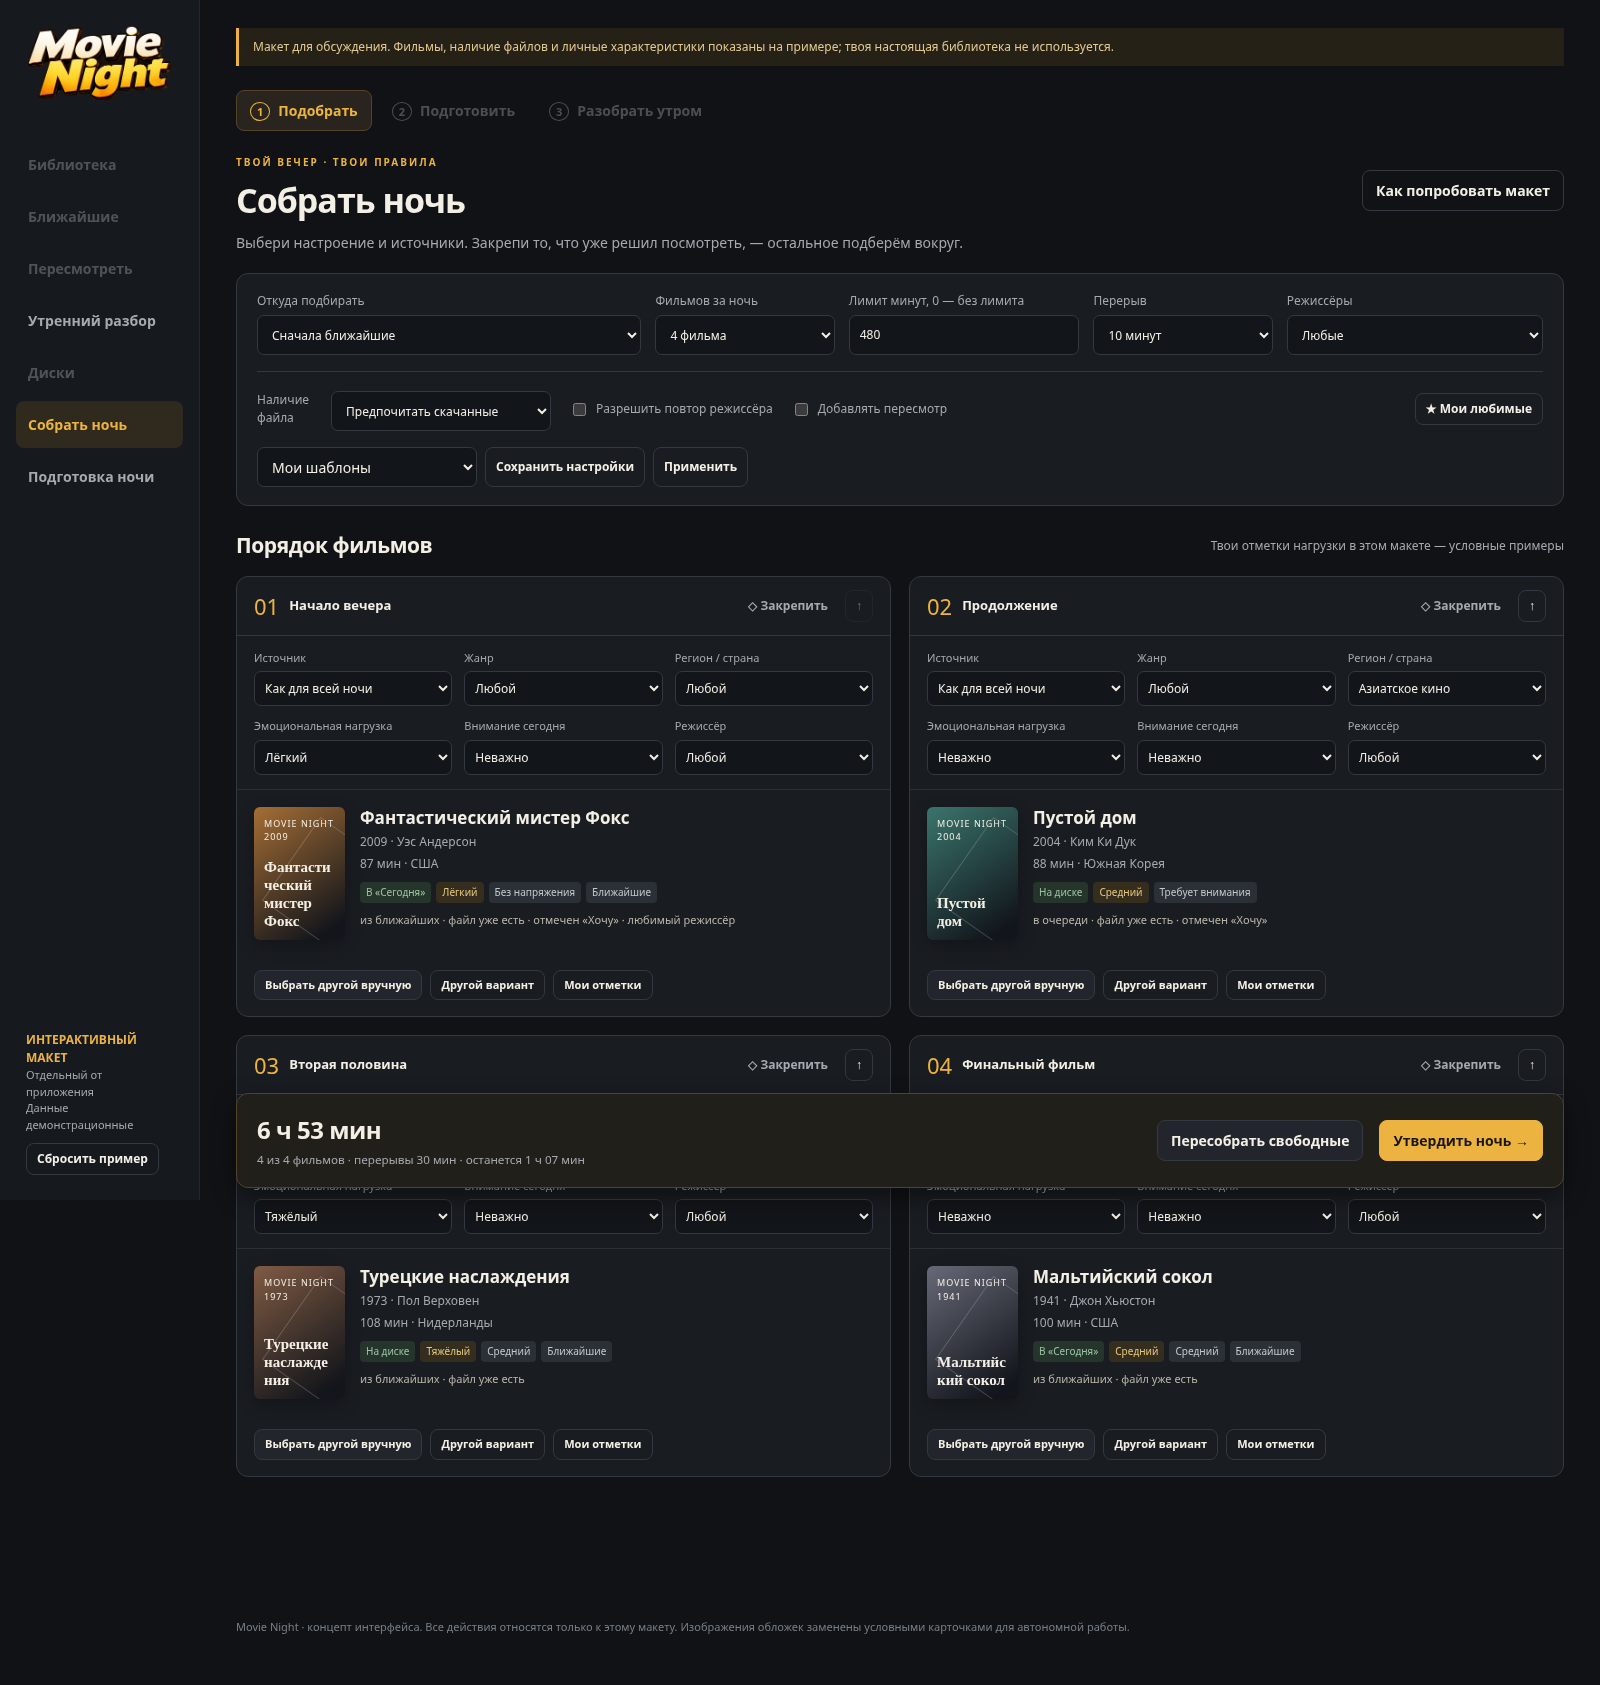
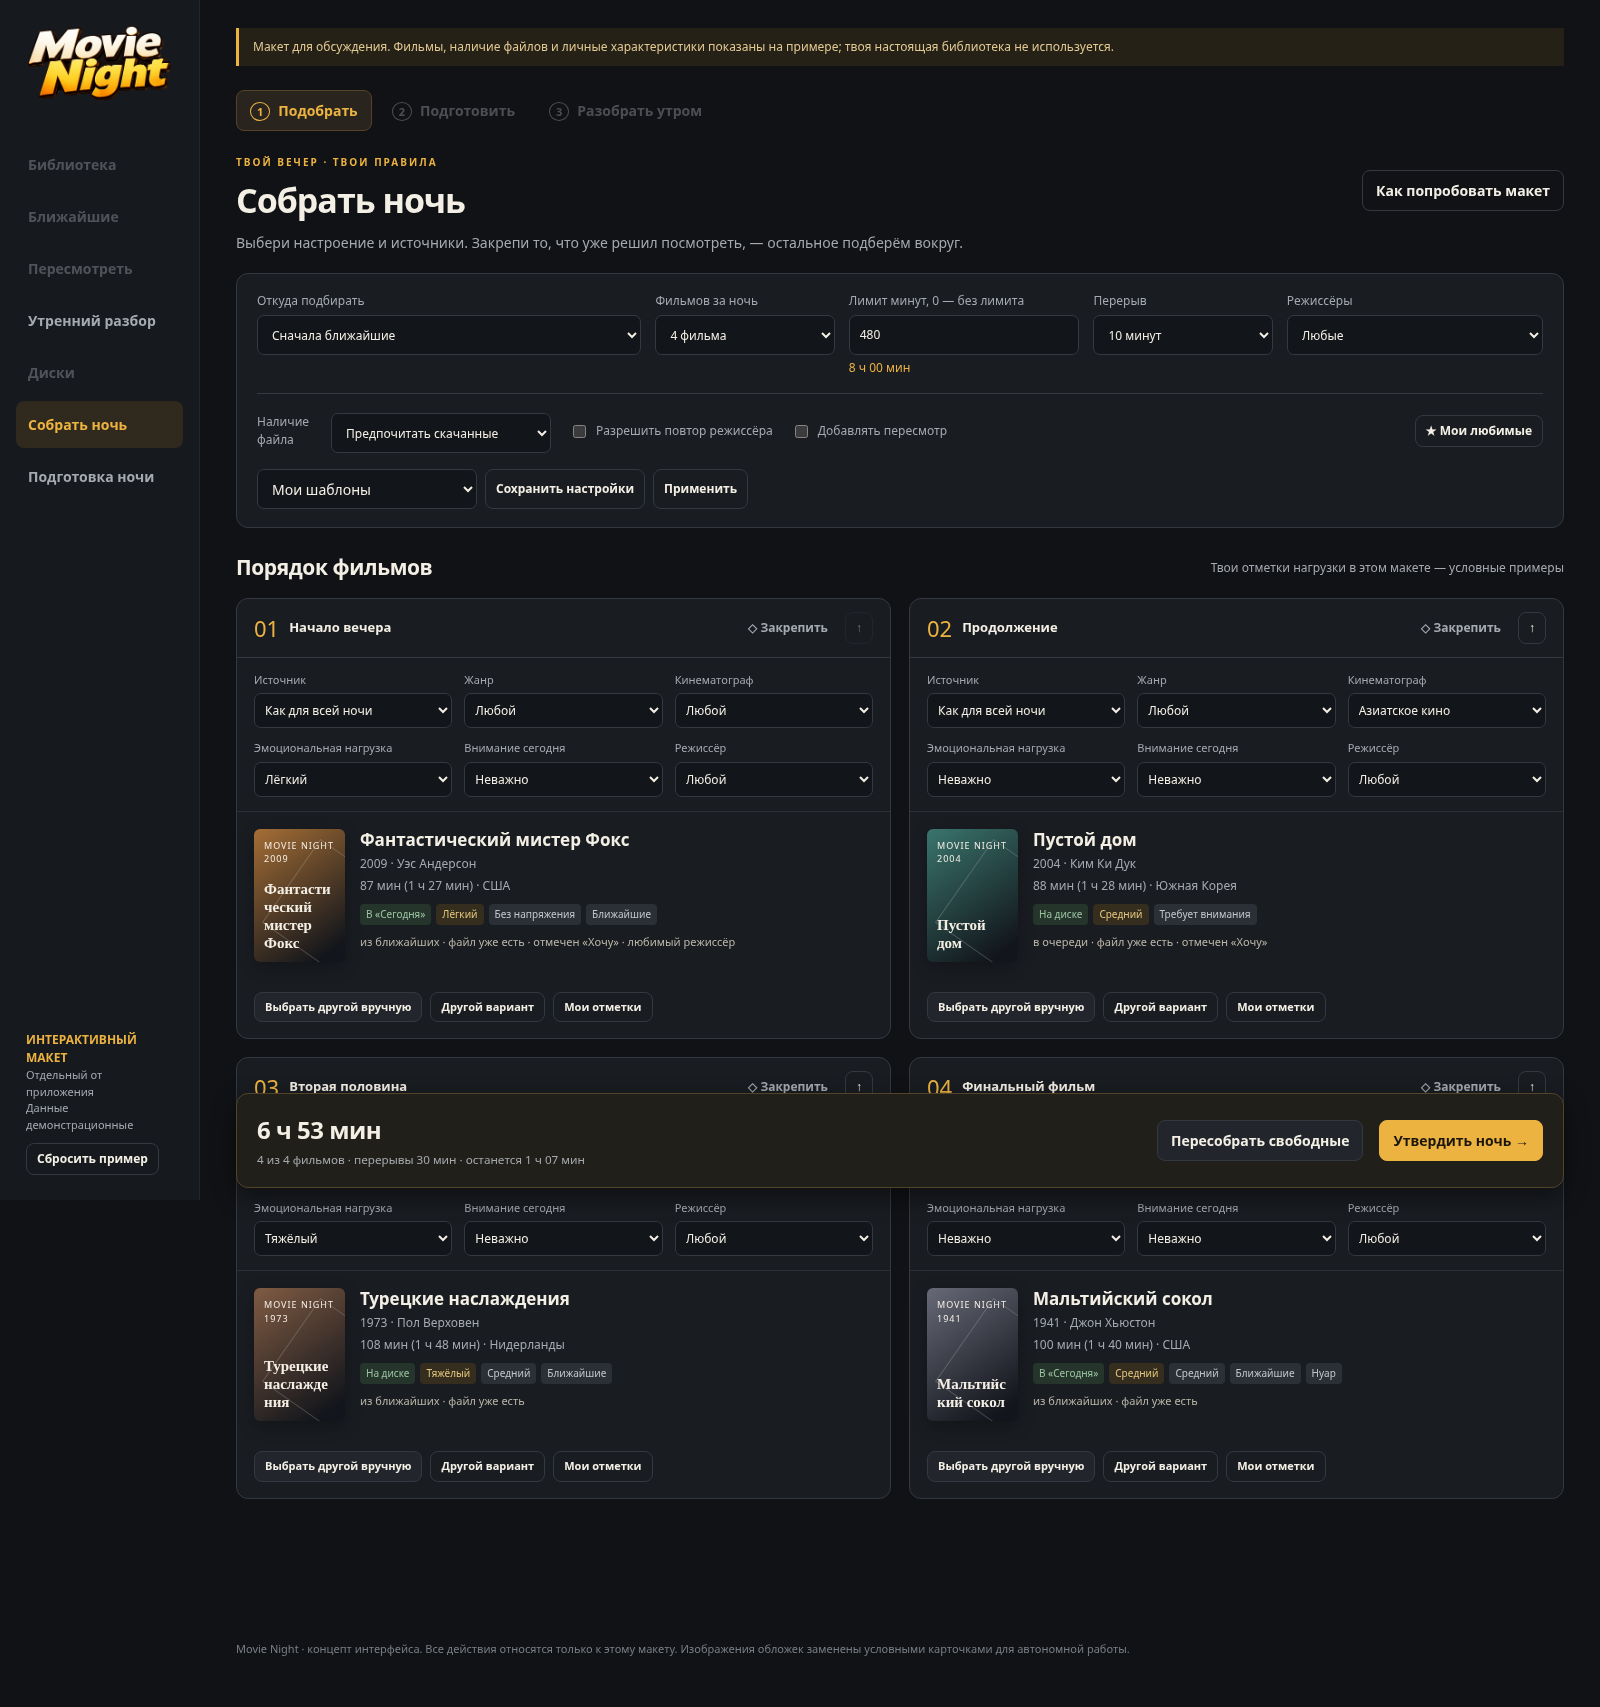
docs: единый азиатский фильтр, нуар и время в часах в макете [skip ci]

diff --git a/docs/prototypes/README.md b/docs/prototypes/README.md
@@ -14,9 +14,9 @@
 
 ## Что попробовать
 
-- Поменять число фильмов (в макете 1–6), лимит минут (0 — без лимита), перерывы и источники.
+- Поменять число фильмов (в макете 1–6), лимит минут (0 — без лимита), перерывы и источники. Рядом с вводом лимита сразу показываются часы и минуты, например 510 минут = 8 ч 30 мин. Длительность каждого фильма также показана в обоих форматах.
 - Настроить смесь: два из «Ближайших» и два из остальной библиотеки.
-- Указать жанр, регион, нагрузку, внимание и конкретного режиссёра для отдельного места.
+- Указать жанр, кинематограф, нагрузку, внимание и конкретного режиссёра для отдельного места. «Азиатское кино» выбирается одним пунктом без деления фильтра на страны; нуар и неонуар доступны в жанрах как ручные метки направления.
 - Выбрать любимых режиссёров вручную.
 - Закрепить фильм и пересобрать остальные; заменить только один фильм или выбрать вручную.
 - Сохранить и применить шаблон условий.
@@ -35,3 +35,5 @@
 Число слотов, шкалы, перерывы и детали экранов служат предложением для обсуждения. Числовые приоритеты демонстрационного подбора не являются утверждённым алгоритмом рекомендаций. Полноценная история ночей, слияние с библиотекой и прочие функции требуют отдельной реализации и согласования выпуска.
 
 Проверено в Chromium: подбор, лимит времени, закрепление, смесь, ручной выбор, шаблоны, утверждение, подготовка, результаты/оценки утра, пропуск без оценки, сохранение после перезагрузки, отмена, недопустимые ограничения и узкий экран. Это не Windows-сборка Electron и не проверка на реальном NAS.
+
+Правки после первого просмотра: убраны отдельные азиатские страны из фильтра (страна фильма в сведениях остаётся), добавлены действующие фильтры нуара/неонуара и их ручное редактирование в «Моих отметках», пересчёт минут в часы. Старые сохранённые фильтры Японии/Южной Кореи в черновиках и шаблонах объединяются в «Азиатское кино». Правки проверены отдельно и полным пользовательским сценарием в Chromium.

diff --git a/docs/NIGHT-PLANNER.md b/docs/NIGHT-PLANNER.md
@@ -206,3 +206,14 @@
 Если точную квоту невозможно заполнить, сообщить, какие слоты не заполняются, и предложить изменение; не добирать из другого источника молча. Закреплённый фильм учитывается в квоте по согласованным правилам, а не добавляется сверх числа фильмов. Число слотов и сумма квот должны совпадать.
 
 Настроение сегодняшней ночи — временное условие: «не хочу вникать» не меняет общую заинтересованность в фильме, очередь или оценку режиссёра. Эмоциональную нагрузку и требовательность к вниманию предложено различать, конкретные шкалы ещё не утверждены.
+
+
+## Уточнения после просмотра макета
+
+Пользователь одобрил общий макет и уточнил три пункта:
+
+1. «Азиатское кино» — единый пользовательский фильтр, без выбора отдельных азиатских стран. В интерфейсе предлагается общее поле «Кинематограф»; страны производства остаются сведениями о фильме и технической основой группировки, а не обязательными отдельными пользовательскими фильтрами.
+2. Нуар и неонуар должны быть доступны в выборе жанра. В данных это ручные метки направления, поскольку не следует обещать наличие достоверной стандартной классификации TMDB. Их можно сочетать с единым азиатским фильтром.
+3. Рядом с вводом лимита минут сразу показывать эквивалент в часах и минутах. Аналогичное отображение добавлено для длительности фильма. Нулевой лимит обозначается как отсутствие ограничения.
+
+Эти правки внесены в автономный макет и проверены в браузере; они не являются выпуском новой версии приложения.

diff --git a/docs/PROGRAM.md b/docs/PROGRAM.md
@@ -325,7 +325,7 @@ python scripts/build_seed.py source.xlsx near.txt movie-night-seed.json
 
 ## План развития
 
-Подробный [проект концепта и алгоритма «Собрать ночь»](NIGHT-PLANNER.md) ведётся отдельно. Доступен [интерактивный макет на демонстрационных данных](prototypes/README.md). Это обсуждаемый проект, а не описание уже работающей функции.
+Подробный [проект концепта и алгоритма «Собрать ночь»](NIGHT-PLANNER.md) ведётся отдельно. Доступен [интерактивный макет на демонстрационных данных](prototypes/README.md); после просмотра пользователем в нём объединён азиатский фильтр без отдельных стран, добавлены нуар/неонуар и часы рядом с минутами. Это обсуждаемый проект, а не описание уже работающей функции.
 
 Следующие пункты описывают намерения, а не обещание включить всё в ближайший релиз. Конкретный состав каждой новой версии согласуется отдельно.
 
